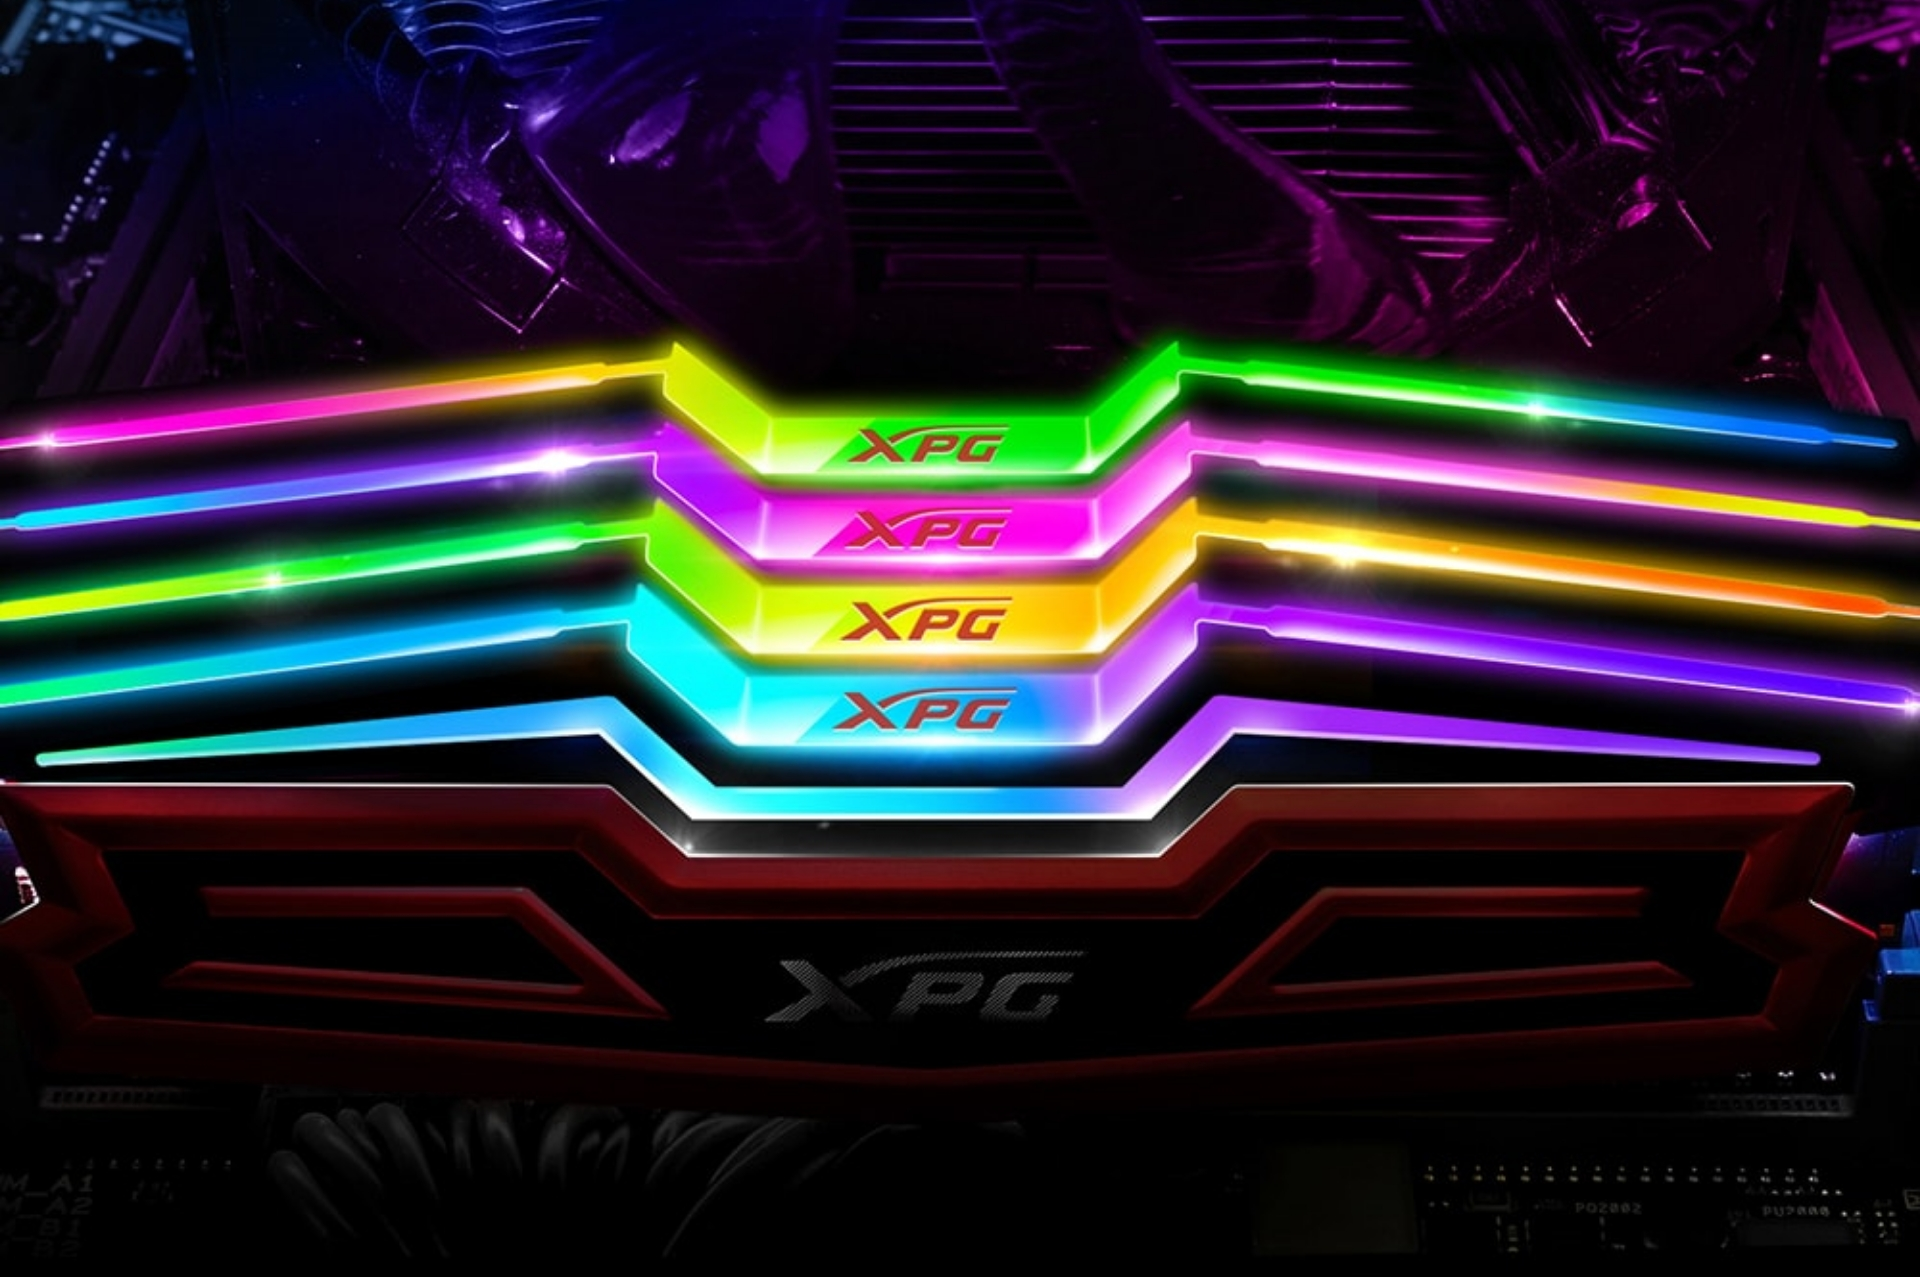
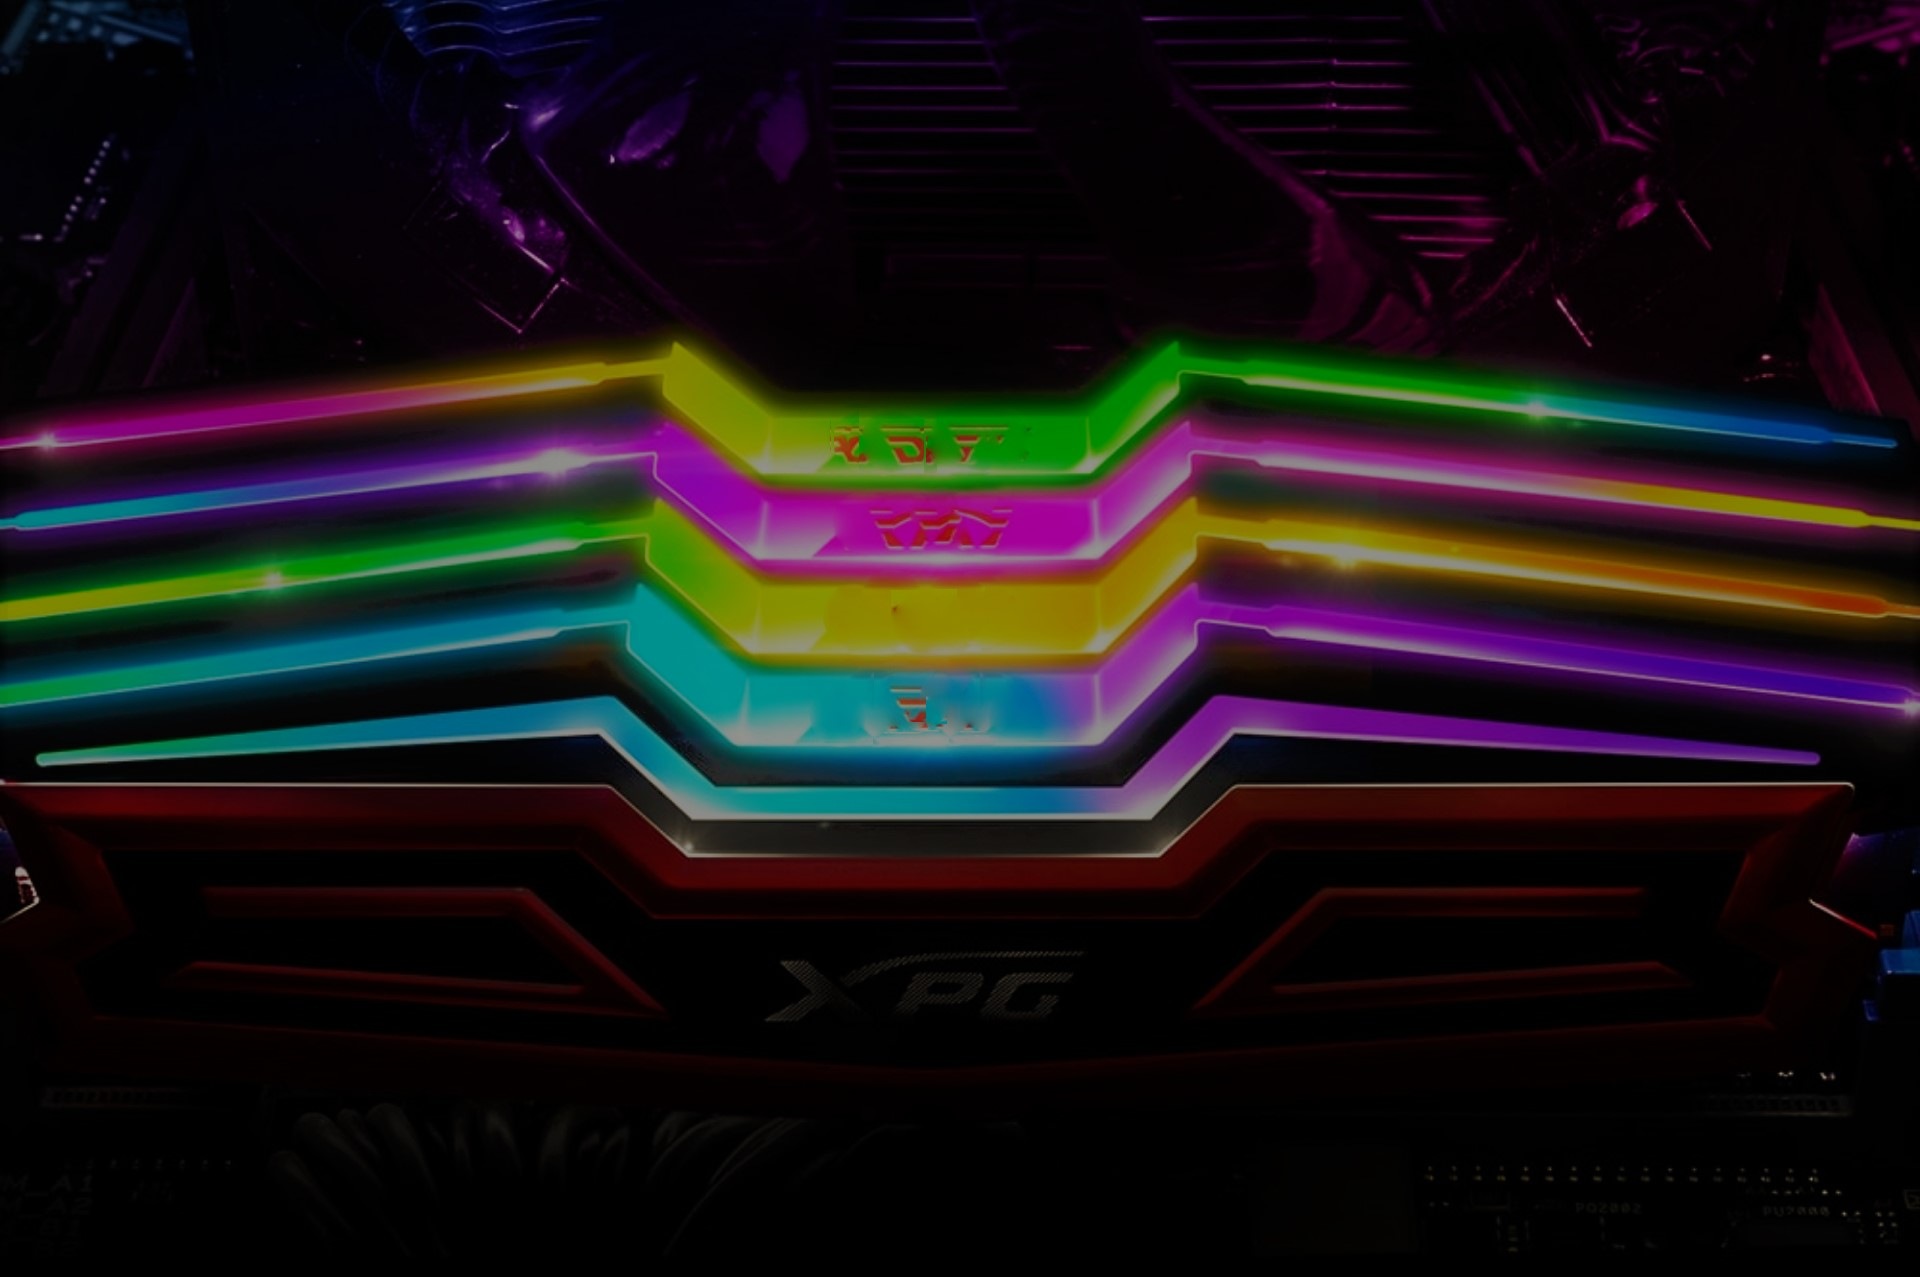
new features

diff --git a/solo-header.html b/solo-header.html
@@ -1,0 +1,52 @@
+<!DOCTYPE html>
+<html lang="en">
+<head>
+    <meta charset="UTF-8">
+    <meta name="viewport" content="width=device-width, initial-scale=1.0">
+    <title>Document</title>
+    <link rel="stylesheet" href="solo-header.css">
+      <link rel="stylesheet" href="https://maxcdn.bootstrapcdn.com/font-awesome/4.7.0/css/font-awesome.min.css">
+      <script src="https://code.jquery.com/jquery-3.3.1.js"></script>
+</head>
+<body>
+    <div class="wrapper">
+        <header>
+
+              <nav>
+
+                    <div class="menu-icon">
+                          <i class="fa fa-bars fa-2x"></i>
+                    </div>
+
+                    <div class="logo">
+                          <img src="assets/sealL.png" alt="">
+                          <a href="#"><img src="assets/cpc.png" alt=""></a>
+                    </div>
+
+                    <div class="menu">
+                          <ul>
+                                <li><a href="https://sealsolutionsandhardware.000webhostapp.com/"><img src="assets/sealboxColores.png" alt=""></a></li>
+                                <li><a href="https://sealsolutionsandhardware.000webhostapp.com/"><img src="assets/teclado.png" alt=""></a></li>
+                                <li><a href="https://sealsolutionsandhardware.000webhostapp.com/"><img src="assets/pc-de-la-torre.png" alt=""></a></li>
+                                <li><a href="https://sealsolutionsandhardware.000webhostapp.com/"><img src="assets/iphone.png" alt=""></a></li>
+                                <li><a href="https://sealsolutionsandhardware.000webhostapp.com/"><img src="assets/sell.png" alt=""></a></li>
+                                <li><a href="https://sealsolutionsandhardware.000webhostapp.com/"><img src="assets/detection.png" alt=""></a></li>
+                                <li><a href="https://sealsolutionsandhardware.000webhostapp.com/"><img src="assets/commerce-and-shopping.png" alt=""></a></li>
+                                <li><a href="https://sealsolutionsandhardware.000webhostapp.com/"><img src="assets/cyberpunk.png" alt=""></a></li>
+                          </ul>
+                    </div>
+              </nav>
+
+        </header>
+
+        <div class="content">
+              <p>
+                    Lorem Ipsum is simply dummy text of the printing and typesetting industry. Lorem Ipsum has been the industry's standard dummy text ever since the 1500s, when an unknown printer took a galley of type and scrambled it to make a type specimen book. It has survived not only five centuries, but also the leap into electronic typesetting, remaining essentially unchanged. It was popularised in the 1960s with the release of Letraset sheets containing Lorem Ipsum passages, and more recently with desktop publishing software like Aldus PageMaker including versions of Lorem Ipsum.
+              </p>
+              <p>
+                    Lorem Ipsum is simply dummy text of the printing and typesetting industry. Lorem Ipsum has been the industry's standard dummy text ever since the 1500s, when an unknown printer took a galley of type and scrambled it to make a type specimen book. It has survived not only five centuries, but also the leap into electronic typesetting, remaining essentially unchanged. It was popularised in the 1960s with the release of Letraset sheets containing Lorem Ipsum passages, and more recently with desktop publishing software like Aldus PageMaker including versions of Lorem Ipsum.
+              </p>
+        </div>
+  </div>
+</body>
+</html>

diff --git a/solo-header.css b/solo-header.css
@@ -1,0 +1,125 @@
+html, body {
+    margin: 0;
+    padding: 0;
+    width: 100%;
+    background-color: #fff;
+    color: #0000;
+}
+
+body {
+    font-family: "Helvetica Neue",sans-serif;
+    font-weight: lighter;
+}
+
+header {
+    height: 100px;
+    background-color: black;
+    color: white;
+    align-items: center;
+}
+
+.content {
+    width: 94%;
+    margin: 4em auto;
+    font-size: 20px;
+    line-height: 30px;
+    text-align: justify;
+}
+
+.logo {
+    line-height: 60px;
+    position: fixed;
+    float: left;
+    margin: 16px 46px;
+    color: #fff;
+    font-weight: bold;
+    font-size: 20px;
+    letter-spacing: 2px;
+    margin-bottom: 10px;
+    margin-right: 20px;
+}
+
+nav {
+    position: fixed;
+    width: 100%;
+    line-height: 60px;
+}
+
+nav ul {
+    line-height: 60px;
+    list-style: none;
+    background: rgba(0, 0, 0, 0);
+    overflow: hidden;
+    color: #fff;
+    padding: 0;
+    text-align: right;
+    margin: 0;
+    padding-right: 40px;
+    transition: 1s;
+}
+
+nav.black ul {
+    background: #000;
+}
+
+nav ul li {
+    display: inline-block;
+    padding: 16px 40px;;
+}
+
+nav ul li a {
+    opacity: 60%;
+    text-decoration: none;
+    color: #fff;
+    font-size: 16px;
+}
+
+nav ul li a:hover {
+    opacity: 100%;
+}
+
+.menu-icon {
+    line-height: 60px;
+    width: 100%;
+    background: #000;
+    text-align: right;
+    box-sizing: border-box;
+    padding: 15px 24px;
+    cursor: pointer;
+    color: #fff;
+    display: none;
+}
+
+@media(max-width: 786px) {
+
+    .logo {
+          position: fixed;
+          top: 0;
+          margin-top: 16px;
+    }
+
+    nav ul {
+          max-height: 0px;
+          background: #000;
+    }
+
+    nav.black ul {
+          background: #000;
+    }
+
+    .showing {
+          max-height: 34em;
+    }
+
+    nav ul li {
+          box-sizing: border-box;
+          width: 100%;
+          padding: 24px;
+          text-align: center;
+    }
+
+    .menu-icon {
+          display: block;
+    }
+
+}

diff --git a/style.css b/style.css
@@ -15,8 +15,7 @@ header {
       opacity: 90%;
       width: 100%;
       height: 100vh;
-      background: url(./assets/memory.jpg) no-repeat 50% 50%;
-      background-size: cover;
+      background-color: #000;
       align-items: center;
 }
 
@@ -38,6 +37,7 @@ header {
       font-size: 20px;
       letter-spacing: 2px;
       margin-bottom: 10px;
+      margin-right: 20px;
 }
 
 nav {
@@ -90,6 +90,71 @@ nav ul li a:hover {
       color: #fff;
       display: none;
 }
+
+/* hero section */
+
+.banner {
+      background:url(assets/memory.jpg);
+      width: 100%;
+      height: 70vh;
+}
+
+.banner-content {
+      color: white;
+      width: 55%;
+      padding-top: 170px;
+      padding-left: 40px;
+}
+
+.banner-content span {
+      padding-top: 20px;
+      font-size: 80px;
+      font-weight: 600;
+      letter-spacing: 2px;
+}
+
+.banner-content h1 {
+      margin-bottom: 10px;
+      font-size: 30px;
+      padding-bottom: 30px;
+      
+}
+
+.banner-content a {
+      text-decoration: none;
+      margin-right: 20px;
+}
+
+.banner-content .btn-one {
+     padding: 20px 60px;
+     background-color: rgba(0, 0, 0, 0);
+     border: 3px solid #fff;
+      font-size: 18px;
+      font-weight: 600;
+      letter-spacing: 2px;
+      color: white;
+}
+
+.banner-content .btn-one:hover {
+      background-color: white;
+      color: black;
+}
+
+.banner-content .btn-two {
+      padding: 20px 60px;
+      background-color: rgba(0, 0, 0, 0);
+      border: 3px solid #fff;
+       font-size: 18px;
+       font-weight: 600;
+       letter-spacing: 2px;
+       color: white;
+ }
+ .banner-content .btn-two:hover {
+      background-color: white;
+      color: black;
+}
+
+/* responsive config */
 
 @media(max-width: 786px) {
 

diff --git a/index.html b/index.html
@@ -37,7 +37,18 @@
                               </ul>
                         </div>
                   </nav>
-
+                  <div class="banner">
+                        <div class="container">
+                              <div class="banner-content">
+                                    <span><img src="assets/cpc@2x.png" alt=""></span><br>
+                                    <span>PC'S/LAPTOPS</span>
+                                    <h1>Computadoras reacondicionadas? Ja, la unica
+                                         diferencia de una nueva es el precio!</h1>
+                                    <a class="btn-one" href="#">VENDER</a>
+                                    <a class="btn-two" href="#">COMPRAR</a>
+                              </div>
+                        </div>
+                  </div>
             </header>
 
             <div class="content">
